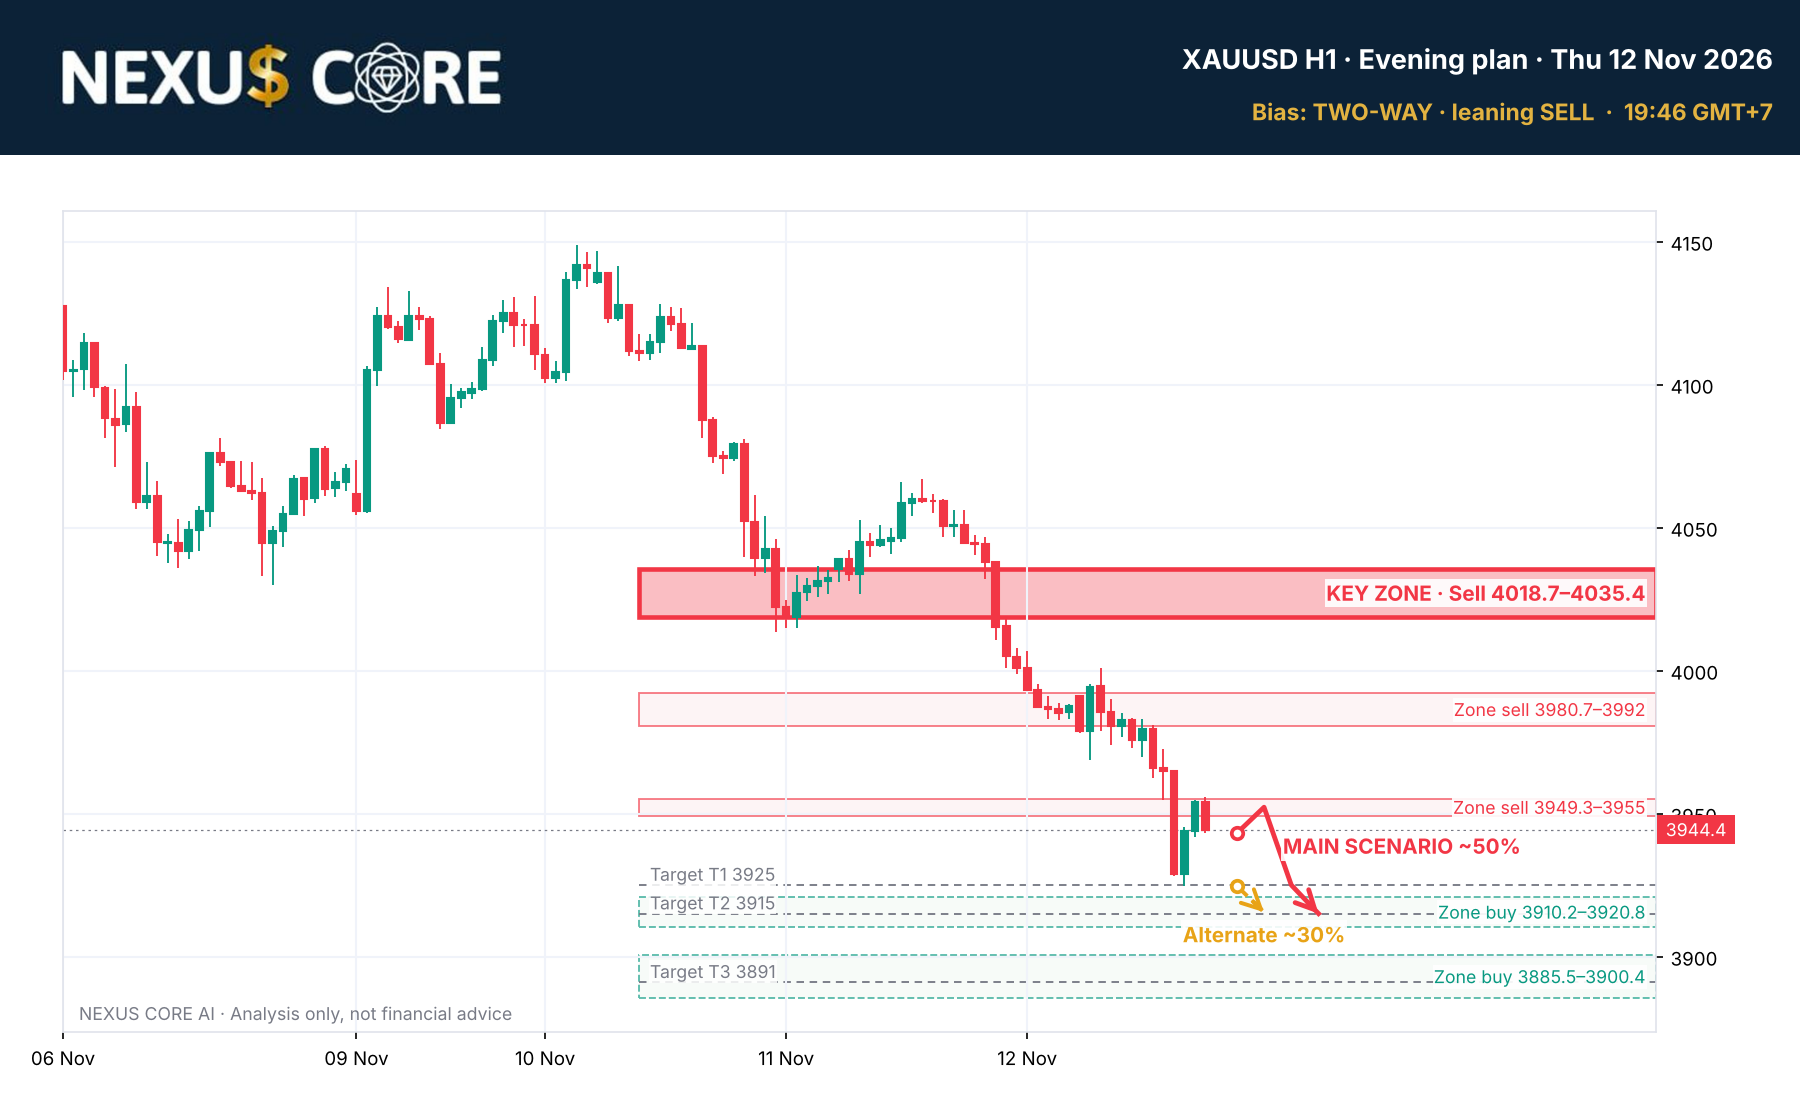
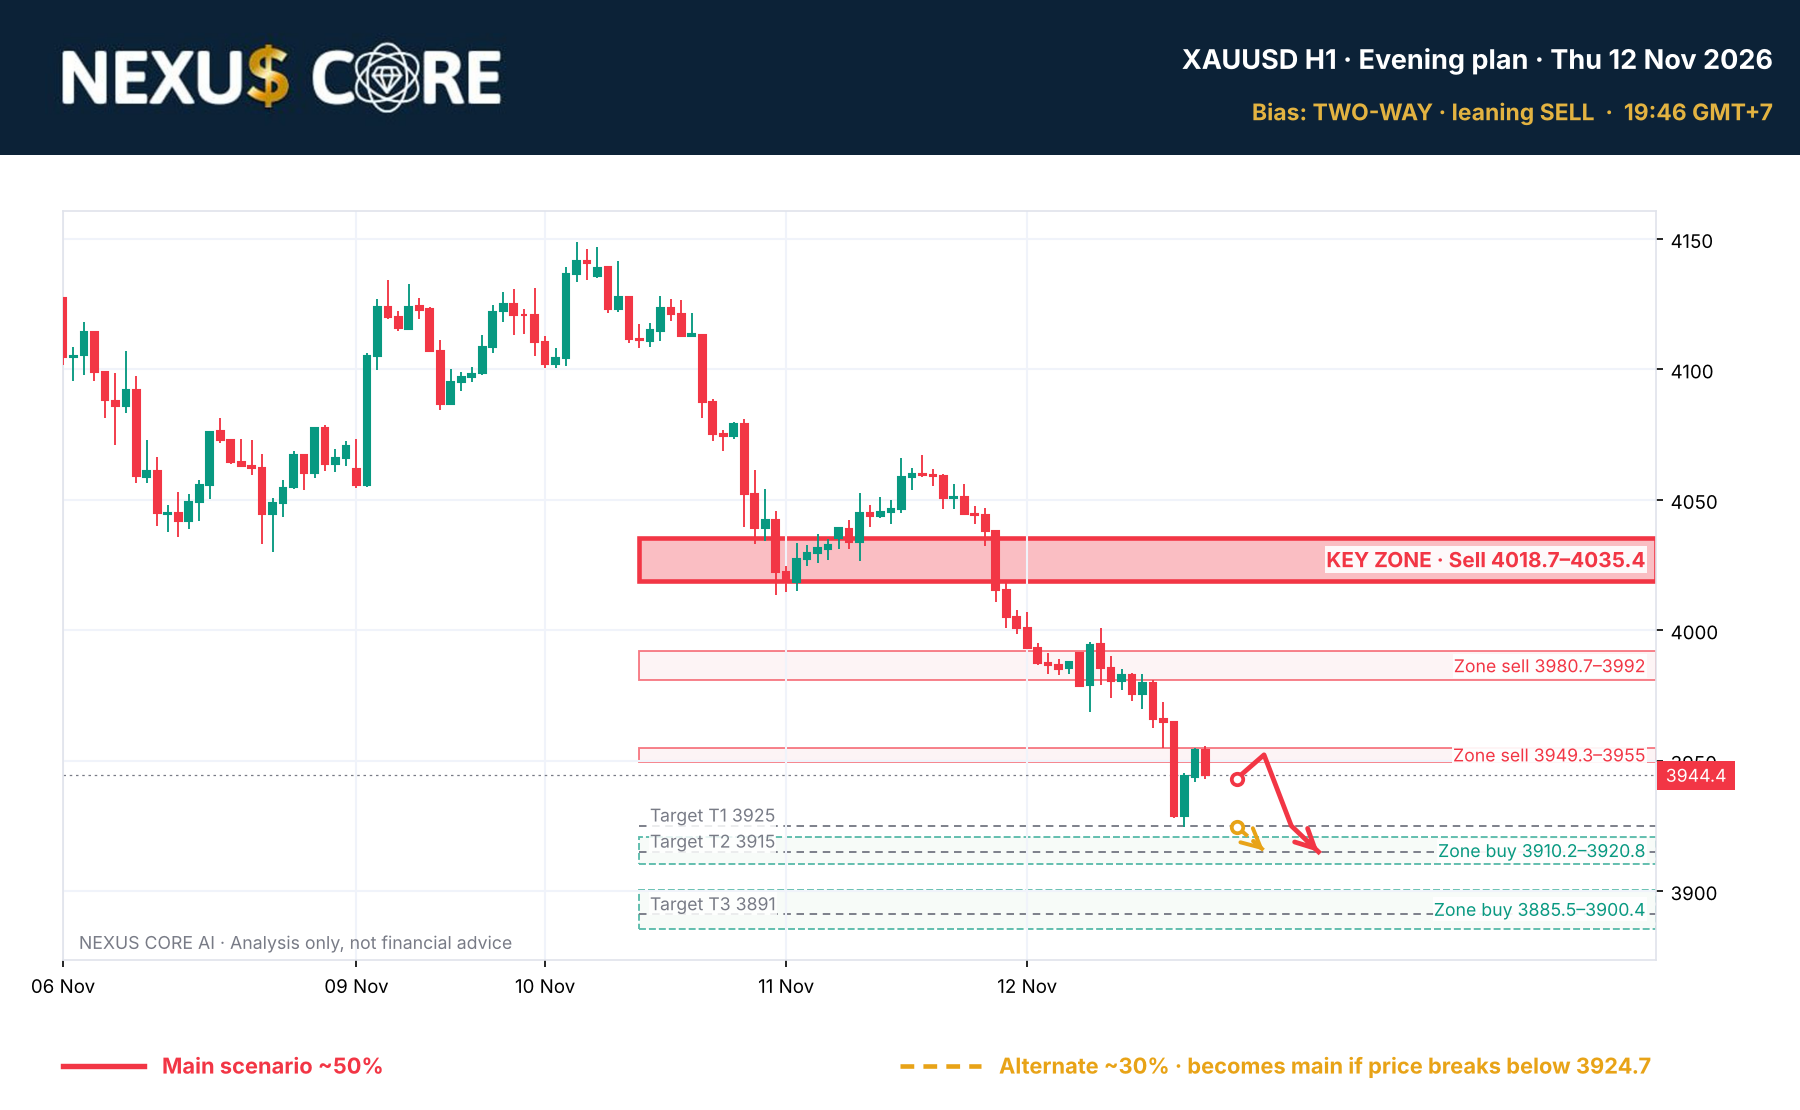
Chart: scenario names moved to a legend under the chart; main = solid, alternate = dashed and promoted to solid once a closed H1 candle after the plan breaks its level; redraw 2026-11-12 1930
Claude-Session: https://claude.ai/code/session_01WJYGnUfHQ5EbwijCaBGk5M

diff --git a/tools/chart.py b/tools/chart.py
@@ -24,10 +24,14 @@ fmt = (lambda v: num(v).replace('.', ',')) if lang == 'vi' else num
 W = {
     'vi': dict(sell='Bán', buy='Mua', main='KỊCH BẢN CHÍNH', alt='Kịch bản phụ', key='VÙNG CHÍNH', zone='Vùng', tgt='Mục tiêu',
                ed={'0700': 'Plan sáng', '1345': 'Cập nhật 13:45', '1930': 'Plan tối'}, bias={'SELL': 'BÁN', 'BUY': 'MUA', 'TWO_WAY': '2 CHIỀU', 'STAND_ASIDE': 'ĐỨNG NGOÀI'},
-               lean='nghiêng', disc='Chỉ là phân tích, không phải lời khuyên đầu tư', tz='giờ VN'),
+               lean='nghiêng', disc='Chỉ là phân tích, không phải lời khuyên đầu tư', tz='giờ VN',
+               lg_main='Kịch bản chính', lg_alt='Kịch bản phụ', lg_up='thành chính khi giá phá lên trên', lg_dn='thành chính khi giá phá xuống dưới',
+               lg_now='giá đã phá {v}', lg_was='kịch bản chính cũ'),
     'en': dict(sell='Sell', buy='Buy', main='MAIN SCENARIO', alt='Alternate', key='KEY ZONE', zone='Zone', tgt='Target',
                ed={'0700': 'Morning plan', '1345': '13:45 update', '1930': 'Evening plan'}, bias={'SELL': 'SELL', 'BUY': 'BUY', 'TWO_WAY': 'TWO-WAY', 'STAND_ASIDE': 'STAND ASIDE'},
-               lean='leaning', disc='Analysis only, not financial advice', tz='GMT+7'),
+               lean='leaning', disc='Analysis only, not financial advice', tz='GMT+7',
+               lg_main='Main scenario', lg_alt='Alternate', lg_up='becomes main if price breaks above', lg_dn='becomes main if price breaks below',
+               lg_now='price broke {v}', lg_was='former main scenario'),
 }[lang]
 MON = ['Jan', 'Feb', 'Mar', 'Apr', 'May', 'Jun', 'Jul', 'Aug', 'Sep', 'Oct', 'Nov', 'Dec']
 
@@ -41,7 +45,7 @@ def render(outf, mob):
     n = len(t); fut = 24 if mob else 42; px = c[-1]; x = n - 1
 
     fig = plt.figure(figsize=(8, 10) if mob else (12, 7.4), dpi=150, facecolor='white')
-    ax = fig.add_axes([0.03, 0.05, 0.86, 0.80] if mob else [0.035, 0.07, 0.885, 0.74])
+    ax = fig.add_axes([0.03, 0.115, 0.86, 0.735] if mob else [0.035, 0.135, 0.885, 0.675])
     ax.set_facecolor('white')
     for i in range(n):
         col = UP if c[i] >= o[i] else DN
@@ -108,8 +112,16 @@ def render(outf, mob):
             a, b = min(block) if up else max(block)
             foot = b if up else a
         return dict(gia=gia, foot=foot, col=col, dut=not main, nhan=lab)
-    if sc: paths.append(path_for(sc[0], True))
-    if len(sc) > 1: paths.append(path_for(sc[1], False))
+    # The alternate becomes the main scenario (solid) once a CLOSED H1 candle after the plan time has closed
+    # beyond its break level (path[0]); the old main is then drawn dashed.
+    promoted = False
+    if len(sc) > 1 and sc[1].get('path'):
+        brk = float(sc[1]['path'][0]); sg = -1 if sc[1]['side'] == 'SELL' else 1
+        t0 = dt.datetime.fromisoformat(P['updated_vn']).replace(tzinfo=dt.timezone(dt.timedelta(hours=7))).timestamp()
+        promoted = any((c[i] - brk) * sg > 0 for i in range(n) if t[i] >= t0 - 3600)
+    order = [(sc[1], True, 1), (sc[0], False, 0)] if promoted else [(s_, k == 0, k) for k, s_ in enumerate(sc[:2])]
+    for s_, mn, k in order:
+        q = path_for(s_, mn); q['k'] = k; q['s'] = s_; paths.append(q)
 
     ys = [px, lo_v, hi_v] + [g + (8 if g > px else -8) for q in paths for g in q['gia'] + [q['foot']]] + shown
     ax.set_xlim(0, n + fut); ax.set_ylim(min(ys) - 12, max(ys) + 12)
@@ -131,44 +143,23 @@ def render(outf, mob):
         ax.annotate('', xy=(a2, b2), xytext=(a1 + (a2 - a1) * 0.6, b1 + (b2 - b1) * 0.6), zorder=6,
                     arrowprops=dict(arrowstyle='->,head_length=0.9,head_width=0.45', color=q['col'], lw=lw, shrinkA=0, shrinkB=0))
         drawn.append((q, pts))
-    # scenario labels: first spot that covers no arrow line, no other label, no candles (tip → peak → beside)
-    R = fig.canvas.get_renderer()
-    taken = [tx.get_window_extent(R) for tx in ZL]
-    seg_pix = []
-    for _, pts in drawn:
-        pp = []
-        for (u1, v1), (u2, v2) in zip(pts, pts[1:]):
-            pp += [ax.transData.transform((u1 + (u2 - u1) * k / 40, v1 + (v2 - v1) * k / 40)) for k in range(41)]
-        seg_pix.append(pp)
-    candle = [ax.transData.transform((i, y_)) for i in range(n) for y_ in (h[i], l[i], (h[i] + l[i]) / 2)]
-    ylo, yhi = ax.get_ylim(); dy = (yhi - ylo) * 0.012
-    inside = ax.get_window_extent(R)
-    for j, (q, pts) in enumerate(drawn):
-        # the label must hug ITS OWN line (tip, peak/trough, or beside a leg) and never cover the other scenario
-        (a1, b1), (a2, b2) = pts[-2], pts[-1]; up = b2 > b1
-        top = max(pts[1:], key=lambda p_: p_[1]); bot = min(pts[1:], key=lambda p_: p_[1])
-        cands = [(a2, b2 + (dy if up else -dy), 'center', 'bottom' if up else 'top'), (a2 + 0.6, b2, 'left', 'center'),
-                 (top[0], top[1] + dy, 'center', 'bottom'), (bot[0], bot[1] - dy, 'center', 'top')]
-        for (u1, v1), (u2, v2) in zip(pts, pts[1:]):
-            mx, my = (u1 + u2) / 2, (v1 + v2) / 2
-            cands += [(mx + 0.5, my, 'left', 'center'), (mx - 0.5, my, 'right', 'center')]
-        own = seg_pix[j]; other = [pt for k, pp in enumerate(seg_pix) if k != j for pt in pp]
-        best, bcost = None, None
-        for cx, cy, ha_, va_ in cands:
-            tx = ax.text(cx, cy, q['nhan'], ha=ha_, va=va_, color=q['col'], fontsize=10 * K, fontweight='bold', zorder=9,
-                         bbox=dict(fc='white', ec='none', alpha=0.9, pad=1))
-            bb = tx.get_window_extent(R)
-            cost = 0 if (bb.x0 >= inside.x0 and bb.x1 <= inside.x1 and bb.y0 >= inside.y0 and bb.y1 <= inside.y1) else 10000
-            cost += 80 * sum(bb.overlaps(o_) for o_ in taken) + 25 * sum(bb.contains(*pt) for pt in other)
-            cost += 2 * sum(bb.contains(*pt) for pt in own) + sum(bb.contains(*pt) for pt in candle)
-            gap = min(max(bb.x0 - X_, 0, X_ - bb.x1) + max(bb.y0 - Y_, 0, Y_ - bb.y1) for X_, Y_ in own)
-            cost += gap * 0.5   # far from its own line = bad
-            if bcost is None or cost < bcost:
-                if best is not None: best.remove()
-                best, bcost = tx, cost
-            else:
-                tx.remove()
-        taken.append(best.get_window_extent(R))
+    # scenario legend under the chart (no labels on the chart itself)
+    LY = [0.052, 0.018] if mob else [0.04, 0.04]
+    LX = [(0.04, 0.04), (0.04, 0.04)] if mob else [(0.035, 0.035), (0.5, 0.5)]
+    for j, q in enumerate(paths[:2]):
+        s_ = q['s']; mn = not q['dut']
+        lx, y_ = LX[j][0], LY[j]
+        fig.add_artist(plt.Line2D([lx, lx + (0.07 if mob else 0.045)], [y_, y_], transform=fig.transFigure, color=q['col'],
+                                  lw=2.6 if mn else 2.2, ls='-' if mn else (0, (3, 2))))
+        txt = f"{W['lg_main'] if mn else W['lg_alt']} ~{s_['prob']}%"
+        pth = s_.get('path') or []
+        if mn and promoted:
+            txt += ' · ' + W['lg_now'].format(v=fmt(float(pth[0])))
+        elif not mn and promoted:
+            txt += ' · ' + W['lg_was']
+        elif not mn and pth:
+            txt += ' · ' + (W['lg_dn'] if s_['side'] == 'SELL' else W['lg_up']) + ' ' + fmt(float(pth[0]))
+        fig.text(lx + (0.085 if mob else 0.055), y_, txt, ha='left', va='center', color=q['col'], fontsize=10.5 * (1.2 if mob else 1), fontweight='bold')
 
     ax.yaxis.tick_right(); ax.grid(color='#F0F3FA', lw=1)
     for s_ in ax.spines.values(): s_.set_color('#E0E3EB')
